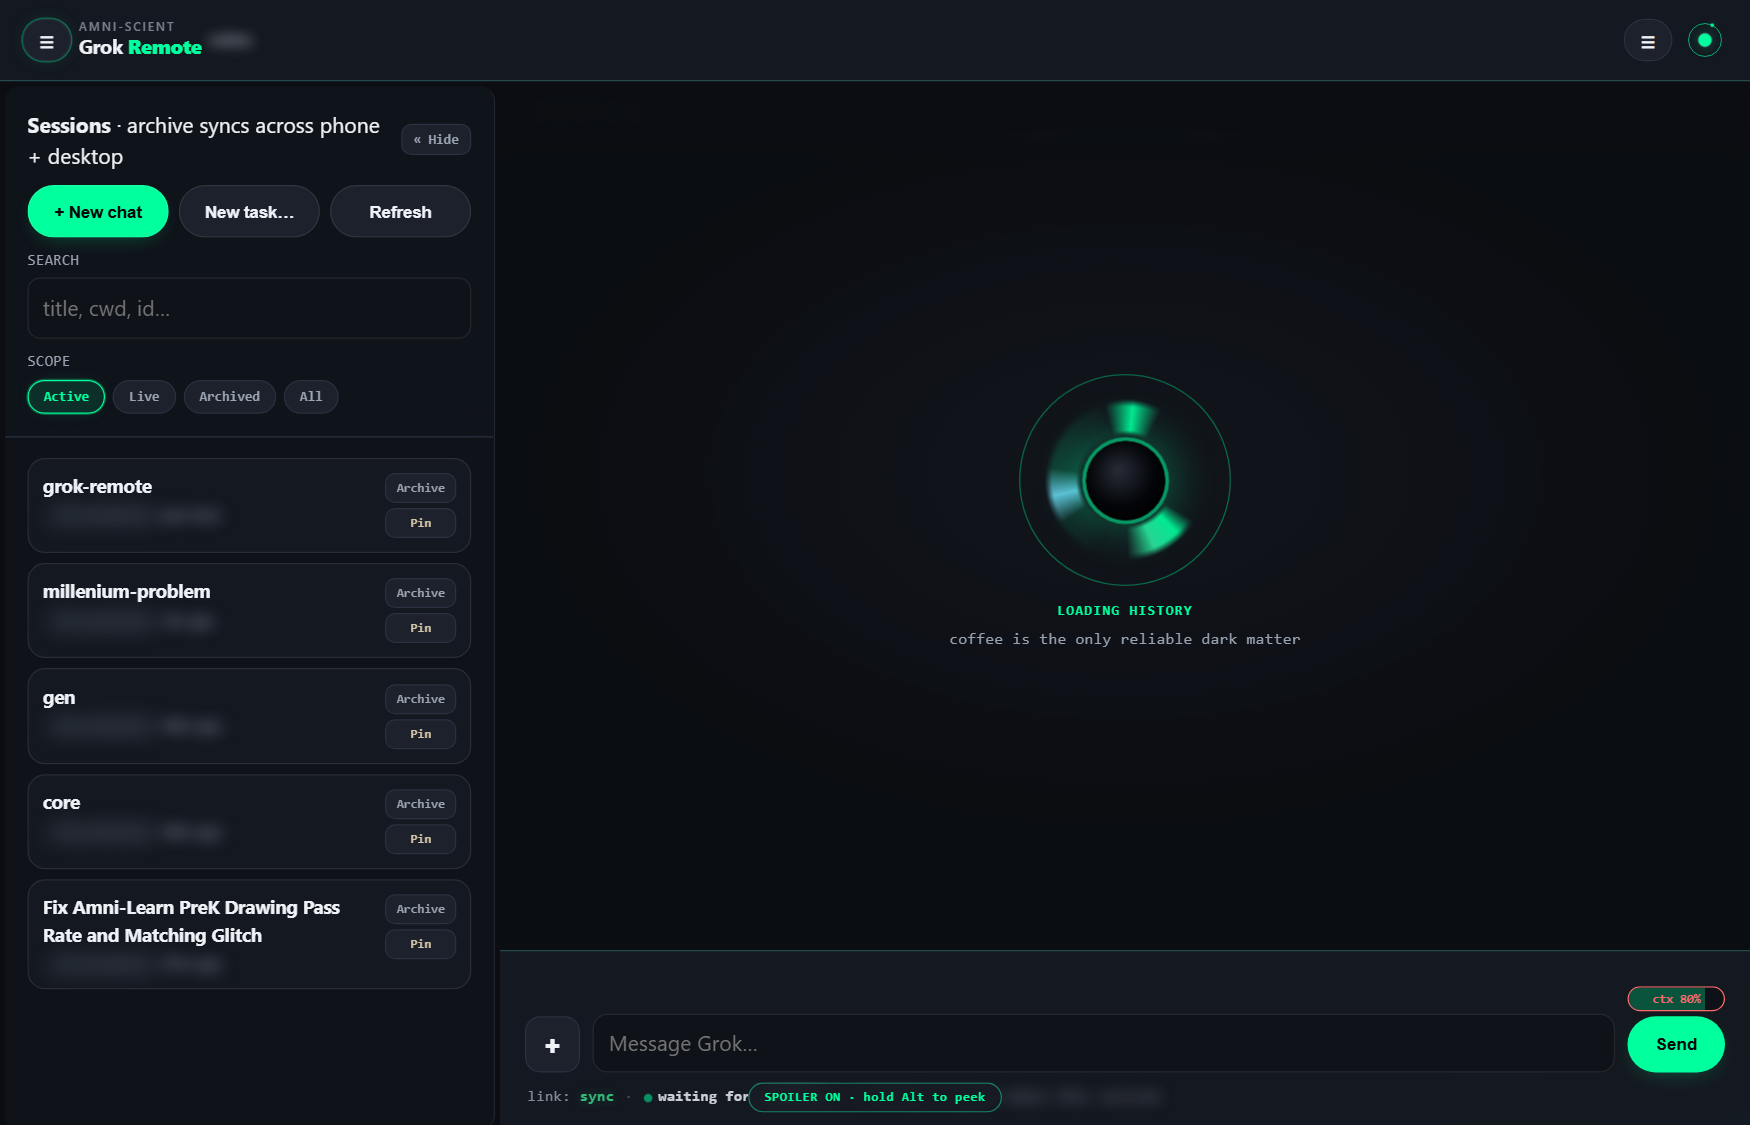
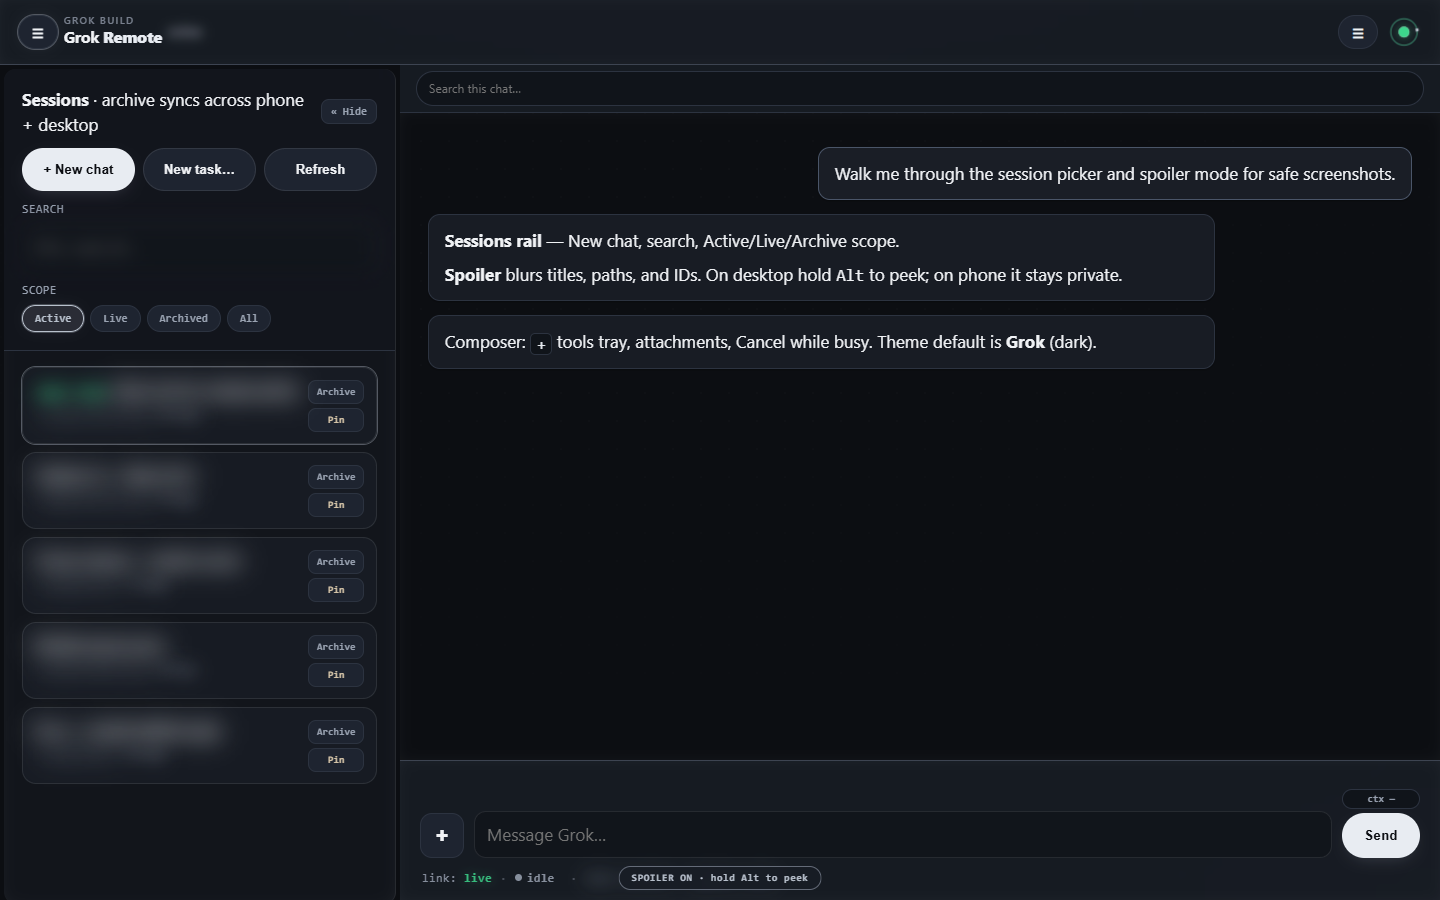
fix(docs): scrub spoiler screenshots — Grok default, no personal data
Retake README PNGs with demo=1 sessions so real paths/chats never ship.
Spoiler blurs titles; mobile badge is private screen (no Alt); default theme Grok.

diff --git a/web/index.html b/web/index.html
@@ -6,7 +6,7 @@
 <meta name="apple-mobile-web-app-capable" content="yes"/>
 <meta name="mobile-web-app-capable" content="yes"/>
 <meta name="theme-color" content="#0a0b0e" id="themeColor"/>
-<title>Grok Remote · AMNI-SCIENT</title>
+<title>Grok Remote · GROK BUILD</title>
 <style>
 /* Surfaces: dark / light. Accents: product variant (Amni-Scient + grey Grok). */
 html[data-mode="dark"]{
@@ -424,16 +424,17 @@ button.send.is-stop:hover{background:var(--bad);transform:translateY(-1px)}
 .badge.idle{color:var(--acc)}
 .hint{color:var(--mut);font-size:clamp(11px,.2vw + 10px,13px);margin-top:6px}
 .spoiler,.spoiler-path{border-radius:4px;transition:filter .12s ease,background .12s}
-body.privacy .spoiler,body.privacy .spoiler-path,body.privacy .sess .m,body.privacy .tool .loc,body.privacy .file-chip,body.privacy #hint,body.privacy .tool .inblock,body.privacy .tool .out,body.privacy .tool .tt,body.privacy .att-chip b,body.privacy .collapsible .code-head span:last-child{
-  filter:blur(6px);user-select:none;-webkit-user-select:none;cursor:default
+body.privacy .spoiler,body.privacy .spoiler-path,body.privacy .sess .m,body.privacy .sess .item .t,body.privacy .sess .item .body .t,body.privacy .tool .loc,body.privacy .file-chip,body.privacy #hint,body.privacy .lb-sess,body.privacy .tool .inblock,body.privacy .tool .out,body.privacy .tool .tt,body.privacy .att-chip b,body.privacy .collapsible .code-head span:last-child,body.privacy .panel input,body.privacy #wsurl,body.privacy #cwd,body.privacy #log,body.privacy .git-strip,body.privacy .ide-tree-head span,body.privacy #ideStatus{
+  filter:blur(9px);user-select:none;-webkit-user-select:none;cursor:default
 }
-body.privacy.privacy-reveal .spoiler,body.privacy.privacy-reveal .spoiler-path,body.privacy.privacy-reveal .sess .m,body.privacy.privacy-reveal .tool .loc,body.privacy.privacy-reveal .file-chip,body.privacy.privacy-reveal #hint,body.privacy.privacy-reveal .tool .inblock,body.privacy.privacy-reveal .tool .out,body.privacy.privacy-reveal .tool .tt,body.privacy.privacy-reveal .att-chip b,body.privacy.privacy-reveal .collapsible .code-head span:last-child{
+body.privacy.privacy-reveal .spoiler,body.privacy.privacy-reveal .spoiler-path,body.privacy.privacy-reveal .sess .m,body.privacy.privacy-reveal .sess .item .t,body.privacy.privacy-reveal .sess .item .body .t,body.privacy.privacy-reveal .tool .loc,body.privacy.privacy-reveal .file-chip,body.privacy.privacy-reveal #hint,body.privacy.privacy-reveal .lb-sess,body.privacy.privacy-reveal .tool .inblock,body.privacy.privacy-reveal .tool .out,body.privacy.privacy-reveal .tool .tt,body.privacy.privacy-reveal .att-chip b,body.privacy.privacy-reveal .collapsible .code-head span:last-child,body.privacy.privacy-reveal .panel input,body.privacy.privacy-reveal #wsurl,body.privacy.privacy-reveal #cwd,body.privacy.privacy-reveal #log,body.privacy.privacy-reveal .git-strip,body.privacy.privacy-reveal .ide-tree-head span,body.privacy.privacy-reveal #ideStatus{
   filter:none;user-select:text
 }
-body.privacy #status{filter:blur(5px);user-select:none}
+body.privacy #status{filter:blur(6px);user-select:none}
 body.privacy.privacy-reveal #status{filter:none}
 .hdrbtn.privacy-on{border-color:var(--acc);color:var(--acc);background:var(--acc-dim)}
-body.privacy::after{content:"SPOILER ON · hold Alt to peek";position:fixed;left:50%;bottom:calc(10px + env(safe-area-inset-bottom));transform:translateX(-50%);z-index:45;font:700 10px/1 var(--font-mono);letter-spacing:.6px;color:var(--acc);background:color-mix(in srgb,var(--panel) 85%,transparent);border:1px solid color-mix(in srgb,var(--acc) 40%,var(--line));border-radius:999px;padding:6px 12px;pointer-events:none;backdrop-filter:blur(8px)}
+body.privacy::after{content:"SPOILER ON · private screen";position:fixed;left:50%;bottom:calc(10px + env(safe-area-inset-bottom));transform:translateX(-50%);z-index:45;font:700 10px/1 var(--font-mono);letter-spacing:.6px;color:var(--acc);background:color-mix(in srgb,var(--panel) 85%,transparent);border:1px solid color-mix(in srgb,var(--acc) 40%,var(--line));border-radius:999px;padding:6px 12px;pointer-events:none;backdrop-filter:blur(8px)}
+body.privacy.can-hover.desktop::after{content:"SPOILER ON · hold Alt to peek"}
 #log{font-size:11px;color:var(--mut);max-height:min(80px,12vh);overflow:auto;white-space:pre-wrap;background:var(--in);border:1px solid var(--line);border-radius:8px;padding:8px;margin-top:8px;font-family:var(--font-mono)}
 .queue{font-size:11px;color:var(--acc);padding:2px 0 6px;min-height:0}
 .perm{border:1px solid color-mix(in srgb,var(--acc) 40%,var(--line));background:var(--acc-dim);border-radius:12px;padding:10px;margin:8px 0}
@@ -1051,7 +1052,7 @@ let linkState="standby",agentPhase="idle",phaseDetail="",wantReconnect=false,rec
 let connecting=false,intentionalClose=false,reconnectArmed=false,maxReconnect=5,startInFlight=false;
 Object.defineProperty(window,"replaying",{get:()=>replaying,set:v=>{replaying=!!v},configurable:true});
 Object.defineProperty(window,"sessionSwitching",{get:()=>sessionSwitching,set:v=>{sessionSwitching=!!v},configurable:true});
-let variant="scient",mode="dark";
+let variant="grok",mode="dark";
 let ux={borders:true,collapseThink:true,collapseCode:true,collapseTools:false,autoScroll:true,privacy:false};
 let archived=new Set(),sessScope="active";
 let personaId="default",directionId="none",personaApplied=new Set();
@@ -1077,15 +1078,15 @@ const VARIANTS=[
 ];
 function esc(t){return String(t||"").replace(/&/g,"&amp;").replace(/</g,"&lt;").replace(/>/g,"&gt;")}
 function migrateTheme(raw){
-  if(!raw)return{variant:"scient",mode:"dark"};
-  if(raw==="light")return{variant:"scient",mode:"light"};
+  if(!raw)return{variant:"grok",mode:"dark"};
+  if(raw==="light")return{variant:"grok",mode:"light"};
   if(raw==="prayer")return{variant:"ai",mode:"dark"};
-  if(raw.indexOf("-")>=0){const p=raw.split("-");return{variant:p[0],mode:p[1]==="light"?"light":"dark"}}
-  if(VARIANTS.some(v=>v.id===raw))return{variant:raw,mode:"dark"};
-  return{variant:"scient",mode:"dark"};
+  if(raw.indexOf("-")>=0){const p=raw.split("-");return{variant:p[0]==="scient"?"grok":p[0],mode:p[1]==="light"?"light":"dark"}}
+  if(VARIANTS.some(v=>v.id===raw))return{variant:raw==="scient"?"grok":raw,mode:"dark"};
+  return{variant:"grok",mode:"dark"};
 }
 function applyTheme(v,m,persist){
-  const vv=VARIANTS.find(x=>x.id===v)||VARIANTS[0];
+  const vv=VARIANTS.find(x=>x.id===v)||VARIANTS.find(x=>x.id==="grok")||VARIANTS[0];
   variant=vv.id;mode=(m==="light")?"light":"dark";
   document.documentElement.setAttribute("data-variant",variant);
   document.documentElement.setAttribute("data-mode",mode);
@@ -1096,6 +1097,7 @@ function applyTheme(v,m,persist){
     meta.setAttribute("content",c);
   }
   if(logoEl)logoEl.innerHTML='<span class="brand">'+esc(vv.brand)+"</span>Grok <b>Remote</b>";
+  try{document.title="Grok Remote · "+(vv.brand||"GROK BUILD")}catch(e){}
   if(persist!==false){
     try{
       localStorage.setItem("grok_remote_variant",variant);
@@ -1163,8 +1165,17 @@ function applyUx(){
   document.body.classList.toggle("privacy",!!ux.privacy);
   autoScroll=ux.autoScroll!==false;
   if(autoScroll){stickBottom=true;scroll()}
+  const mq=window.matchMedia;
+  const finePtr=!(mq)||mq("(hover:hover) and (pointer:fine)").matches;
+  const desktopUi=document.body.classList.contains("desktop")||document.body.classList.contains("electron");
+  const fine=!!(finePtr&&desktopUi);
+  document.body.classList.toggle("can-hover",!!fine);
+  document.body.classList.toggle("touch-ui",!fine);
   const bp=document.getElementById("btnPrivacy");
-  if(bp){bp.classList.toggle("privacy-on",!!ux.privacy);bp.title=ux.privacy?"Spoiler ON — paths/IDs blurred (hold Alt to peek)":"Spoiler mode — blur IDs/paths for screenshots"}
+  if(bp){
+    bp.classList.toggle("privacy-on",!!ux.privacy);
+    bp.title=ux.privacy?(fine?"Spoiler ON — titles/paths blurred (hold Alt to peek)":"Spoiler ON — private screen (titles/paths blurred)"):"Spoiler mode — blur titles/paths/IDs for screenshots";
+  }
   updateJump();
   paintUxChips();
 }
@@ -1606,10 +1617,11 @@ function extractStartLine(text,st){
   }
   return 1;
 }
+function isLinked(){return!!(isDemoMode()||(ws&&ws.readyState===1))}
 function updateChrome(){
   updateLayoutClass();
   applySidebar();
-  const chat=page==="chat",on=ws&&ws.readyState===1,wide=isWideLayout();
+  const chat=page==="chat",on=isLinked(),wide=isWideLayout();
   document.body.classList.toggle("page-chat",chat);
   btnBack.style.display=(!wide&&chat)?"inline-block":"none";
   if(btnSess)btnSess.style.display=(on&&chat&&!wide)?"":"none";
@@ -1626,7 +1638,7 @@ function showPage(name,fromPop){
   page=name;
   updateLayoutClass();
   applySidebar();
-  const wide=isWideLayout(),on=ws&&ws.readyState===1;
+  const wide=isWideLayout(),on=isLinked();
   const chatStage=document.getElementById("chatStage");
   setup.classList.toggle("on",name==="setup");
   document.body.classList.toggle("page-chat",name==="chat");
@@ -2492,8 +2504,31 @@ function relTime(ms){
 function sessionTitle(s){
   return String((s&&s.title)||"").trim()||"Untitled";
 }
+const DEMO_SESSIONS=[
+  {sessionId:"demo-001",title:"Ship remote cockpit polish",cwd:"~/projects/demo-app",resident:true,activity:"live",updatedAt:Date.now()-120000},
+  {sessionId:"demo-002",title:"Tighten CI + flaky tests",cwd:"~/projects/demo-app",resident:false,activity:"idle",updatedAt:Date.now()-3600000},
+  {sessionId:"demo-003",title:"Theme tokens + spoiler mode",cwd:"~/projects/ui-kit",resident:false,activity:"idle",updatedAt:Date.now()-86400000},
+  {sessionId:"demo-004",title:"Mobile layout pass",cwd:"~/projects/demo-app",resident:false,activity:"idle",updatedAt:Date.now()-172800000},
+  {sessionId:"demo-005",title:"Docs + install walkthrough",cwd:"~/projects/docs",resident:false,activity:"idle",updatedAt:Date.now()-259200000}
+];
+function isDemoMode(){try{return new URLSearchParams(location.search).get("demo")==="1"||!!window.__demoMode}catch(e){return!!window.__demoMode}}
+function paintDemoChat(){
+  if(!feed)return;
+  feed.innerHTML="";
+  const mk=(who,html)=>{const r=document.createElement("div");r.className="row "+who;const b=document.createElement("div");b.className="bub";b.innerHTML=html;r.appendChild(b);feed.appendChild(r)};
+  mk("me","<div class='md-p'>Walk me through the session picker and spoiler mode for safe screenshots.</div>");
+  mk("you","<div class='md-p'><strong>Sessions rail</strong> — New chat, search, Active/Live/Archive scope.</div><div class='md-p'><strong>Spoiler</strong> blurs titles, paths, and IDs. On desktop hold <kbd>Alt</kbd> to peek; on phone it stays private.</div>");
+  mk("you","<div class='md-p'>Composer: <code class='ic'>+</code> tools tray, attachments, Cancel while busy. Theme default is <strong>Grok</strong> (dark).</div>");
+  try{const h=document.getElementById("hint");if(h)h.textContent="demo session · spoiler-safe"}catch(e){}
+  stickBottom=true;scroll();
+}
 async function fetchSessions(){
   try{await loadArchive()}catch(e){}
+  if(isDemoMode()){
+    sessions=DEMO_SESSIONS.slice();
+    renderSessions();
+    return sessions;
+  }
   const r=await req("_x.ai/sessions/list",{},30000);
   sessions=normalizeSessions(r);renderSessions();return sessions;
 }
@@ -2525,12 +2560,12 @@ function renderSessions(){
     const arch=isArchived(id);
     const cur=sid&&id===String(sid);
     const d=document.createElement("div");d.className="item"+(arch?" archived":"")+(cur?" current":"");
-    d.title=sessionTitle(s)+(s.cwd?" · "+String(s.cwd):"");
+    d.title=ux.privacy?"":(sessionTitle(s)+(s.cwd?" · "+String(s.cwd):""));
     const body=document.createElement("div");body.className="body";
     const when=sessionStamp(s);const ago=relTime(when);
     const path=shortPath(s.cwd||"");
     const actBadge=s.resident?"live":(s.activity&&!/dormant|idle/i.test(String(s.activity))?s.activity:"");
-    body.innerHTML='<div class="t">'+(cur?'<span class="badge live">open</span>':'')+(s.resident?'<span class="badge live">live</span>':'')+(arch?'<span class="badge">archived</span>':'')+(actBadge&&!s.resident?'<span class="badge idle">'+esc(actBadge)+'</span>':'')+esc(sessionTitle(s))+'</div><div class="m spoiler">'+(path?'<span class="spoiler-path">'+esc(path)+"</span>":"")+(ago?(path?" · ":"")+esc(ago):"")+"</div>";
+    body.innerHTML='<div class="t spoiler">'+(cur?'<span class="badge live">open</span>':'')+(s.resident?'<span class="badge live">live</span>':'')+(arch?'<span class="badge">archived</span>':'')+(actBadge&&!s.resident?'<span class="badge idle">'+esc(actBadge)+'</span>':'')+'<span class="spoiler">'+esc(sessionTitle(s))+'</span></div><div class="m spoiler">'+(path?'<span class="spoiler-path">'+esc(path)+"</span>":"")+(ago?(path?" · ":"")+esc(ago):"")+"</div>";
     const acts=document.createElement("div");acts.className="acts";
     const ab=document.createElement("button");ab.type="button";ab.textContent=arch?"Unarchive":"Archive";
     ab.onclick=e=>toggleArchive(id,e);
@@ -2539,7 +2574,7 @@ function renderSessions(){
     pb.onclick=e=>{e.stopPropagation();if(window.grokCockpit)window.grokCockpit.pinSession(s);chip("pinned "+sessionTitle(s))};
     acts.appendChild(pb);
     d.appendChild(body);d.appendChild(acts);
-    d.onclick=e=>{if(e.target.closest&&e.target.closest(".acts"))return;openSession(s)};
+    d.onclick=e=>{if(e.target.closest&&e.target.closest(".acts"))return;if(isDemoMode()){sid=id;sidCwd=s.cwd||"";renderSessions();paintDemoChat();page="chat";updateChrome();return}openSession(s)};
     sessList.appendChild(d);
   });
 }
@@ -3526,9 +3561,9 @@ window.addEventListener("resize",()=>{
     const raw=localStorage.getItem("grok_remote_theme");
     const v=localStorage.getItem("grok_remote_variant");
     const m=localStorage.getItem("grok_remote_mode");
-    if(v||m){variant=v||"scient";mode=m||"dark"}
+    if(v||m){variant=v||"grok";mode=m||"dark"}
     else{const mig=migrateTheme(raw);variant=mig.variant;mode=mig.mode}
-  }catch(e){variant="scient";mode="dark"}
+  }catch(e){variant="grok";mode="dark"}
   loadUx();
   loadArchiveLocal();
   loadArchive({migrate:true}).catch(()=>{});
@@ -3546,9 +3581,20 @@ window.addEventListener("resize",()=>{
   const q=new URLSearchParams(location.search);
   if(q.get("theme")||q.get("variant")||q.get("mode")){
     const mig=migrateTheme(q.get("theme")||"");
-    applyTheme(q.get("variant")||mig.variant,q.get("mode")||mig.mode,true);
+    applyTheme(q.get("variant")||mig.variant,q.get("mode")||mig.mode,q.get("demo")!=="1");
   }
-  // Electron bridge: preload can force desktop + autostart stack
+  if(q.get("privacy")==="1"||q.get("spoiler")==="1"){ux.privacy=true;saveUx()}
+  if(q.get("privacy")==="0"){ux.privacy=false;saveUx()}
+  if(q.get("demo")==="1"){
+    window.__demoMode=true;
+    try{localStorage.setItem("grok_remote_tour_done","1")}catch(e){}
+    applyTheme(q.get("variant")||"grok",q.get("mode")||"dark",false);
+    ux.privacy=q.get("privacy")!=="0";
+    saveUx();
+  }
+  applyUx();
+  updateLayoutClass();
+  applyUx();
   if(window.grokRemote){
     document.body.classList.add("electron","desktop");
     try{if(window.grokRemote.getCwd){const c=await window.grokRemote.getCwd();if(c)document.getElementById("cwd").value=c}}catch(e){}
@@ -3558,7 +3604,24 @@ window.addEventListener("resize",()=>{
   if(q.get("ws"))document.getElementById("wsurl").value=q.get("ws");
   if(q.get("session"))window.__wantSession=q.get("session");
   if(q.get("task"))window.__wantTask=q.get("task");
-  const doAuto=q.get("auto")==="1"||q.get("auto")!=="0"&&(window.grokRemote&&window.grokRemote.autoConnect!==false||!window.grokRemote&&location.protocol!=="file:");
+  if(isDemoMode()){
+    sessions=DEMO_SESSIONS.slice();
+    setConn(true,"demo",false);
+    setPhase("idle");
+    if(q.get("chat")==="1"||q.get("view")==="chat"){
+      sid=DEMO_SESSIONS[0].sessionId;sidCwd=DEMO_SESSIONS[0].cwd||"";
+      showPage("chat",true);
+      renderSessions();
+      paintDemoChat();
+    }else if(q.get("view")==="setup"){
+      showPage("setup",true);
+      renderSessions();
+    }else{
+      showPage("sessions",true);
+      renderSessions();
+    }
+  }
+  const doAuto=!isDemoMode()&&(q.get("auto")==="1"||q.get("auto")!=="0"&&(window.grokRemote&&window.grokRemote.autoConnect!==false||!window.grokRemote&&location.protocol!=="file:"));
   if(doAuto){
     reconnectArmed=true;wantReconnect=true;connectAttempt=0;
     try{
@@ -3573,7 +3636,7 @@ window.addEventListener("resize",()=>{
   }
   const forceTour=q.get("tour")==="1"||q.get("tour")==="force";
   let tourDone=false;try{tourDone=localStorage.getItem("grok_remote_tour_done")==="1"}catch(e){}
-  if(forceTour||!tourDone){
+  if(!isDemoMode()&&(forceTour||!tourDone)){
     setTimeout(()=>{try{startTour(forceTour?"url":"first-run")}catch(e){}},doAuto?900:400);
   }
 })();

diff --git a/README.md b/README.md
@@ -29,9 +29,11 @@ Open the printed URL on your phone (same Wi‑Fi), e.g. `http://192.168.x.x:2421
 
 ## Screenshots
 
-Spoiler mode blurs paths, session IDs, and sensitive chips for safe sharing (hold **Alt** to peek).
+Default theme is **Grok** (dark). Spoiler blurs session titles, paths, and IDs for safe sharing — desktop holds **Alt** to peek; phone shows **private screen** (no Alt).
 
-### Desktop cockpit (Scient · dark · spoiler on)
+Demo captures use `?demo=1&variant=grok&privacy=1` so real chats/paths never hit the repo.
+
+### Desktop cockpit (Grok · dark · spoiler on)
 
 ![Desktop sessions + cockpit with spoiler blur](docs/screenshots/desktop-cockpit-spoiler.png)
 
@@ -45,13 +47,13 @@ Spoiler mode blurs paths, session IDs, and sensitive chips for safe sharing (hol
 
 ### Phone
 
-| Scient | Grok mono |
-|--------|-----------|
-| ![Phone Scient theme spoiler](docs/screenshots/phone-spoiler.png) | ![Phone Grok theme spoiler](docs/screenshots/phone-grok-spoiler.png) |
+| Grok (default) | Scient accent |
+|----------------|---------------|
+| ![Phone Grok theme spoiler](docs/screenshots/phone-grok-spoiler.png) | ![Phone Scient theme spoiler](docs/screenshots/phone-spoiler.png) |
 
 ### Connect / themes screen
 
-![Setup panel with themes, Spoiler chip, and SPOILER ON badge](docs/screenshots/setup-spoiler.png)
+![Setup panel with Grok selected, Spoiler chip, and SPOILER ON badge](docs/screenshots/setup-spoiler.png)
 
 ## What you get
 

diff --git a/architecture_map.md b/architecture_map.md
@@ -1,22 +1,33 @@
 # Grok Remote — architecture map
 
-**Updated:** 2026-07-10 · v7 live status + session reliability
+**Updated:** 2026-07-10 · v14 spoiler-safe screenshots + demo mode
 
 ## Layout
 
 ```
 grok-remote/
-  web/index.html          # Phone + browser + Electron UI
+  web/index.html          # Phone + browser + Electron UI (default theme: grok)
   web/ide.js              # Built-in IDE + Grok Review
   server.py               # static + /ws proxy + /api/fs/*
   start.ps1               # agent + UI launch
+  scripts/capture-screenshots.mjs  # demo=1 Playwright PNGs for README
   scripts/launch-desktop.cmd
   desktop/                # Electron cockpit (auto-stack)
+  docs/screenshots/       # public spoiler shots only
   skills/remote/
   commands/
   hooks/hooks.json
   config.default.json
 ```
+
+## Privacy / spoiler (v14)
+
+| Piece | Behavior |
+|-------|----------|
+| `body.privacy` | Blurs titles (`.sess .item .t`), paths, IDs, setup inputs, tool locs |
+| Badge | Default `SPOILER ON · private screen`; Alt only if `can-hover` + `desktop` |
+| `?demo=1` | Fake sessions + sample chat; no agent; safe for git screenshots |
+| `?privacy=1` / `variant=` | Force spoiler / theme for captures without localStorage leaks |
 
 ## Cockpit v4
 

diff --git a/docs/guardian_councils/guardian_council_spoiler_shots.md b/docs/guardian_councils/guardian_council_spoiler_shots.md
@@ -1,0 +1,18 @@
+# Guardian Council · Spoiler-safe public screenshots
+
+## Architect
+Ship a `?demo=1` capture path with scrubbed sessions + forced Grok theme so README never depends on live disk state.
+
+## Sentinel
+Blur must cover titles not just paths; mobile must never advertise Alt; no username/cwd/chat titles from real sessions in git.
+
+## Scholar
+Prior shots failed because title blur landed after capture and localStorage kept Scient; document demo URL in README.
+
+## Engineer
+Reuse existing privacy CSS; add spoiler classes on titles; `isLinked()` for demo rail; Playwright + Chrome for PNGs.
+
+## Pathfinder
+Majority: demo mode + retake all PNGs + README. Alternate (edit PNGs by hand) rejected as fragile.
+
+**Ruling:** Demo capture pipeline + stronger spoiler + Grok default shots.

diff --git a/changelog.md b/changelog.md
@@ -1,5 +1,13 @@
 # Changelog
 
+## 2026-07-10 — Spoiler-safe Grok screenshots v14
+
+- Privacy blurs **session titles** (not just paths); stronger blur; title tooltips stripped when spoiler on
+- Spoiler badge: **private screen** by default; **hold Alt to peek** only on real desktop (`can-hover.desktop`)
+- Default product theme remains **Grok**; `applyTheme` fallback no longer lands on Scient
+- `?demo=1&variant=grok&privacy=1` scrubbed sessions for public captures; `scripts/capture-screenshots.mjs`
+- README shots retaken — no personal paths/chats, Grok dark default, phone without Alt
+
 ## 2026-07-10 — Menu stacking + code line numbers / syntax
 
 - Header ☰ / orbit menus use `position:fixed` + high z-index so they paint above chat

diff --git a/docs/checklists/checklist_spoiler_shots_v14.md b/docs/checklists/checklist_spoiler_shots_v14.md
@@ -1,0 +1,12 @@
+# Checklist · spoiler-safe screenshots v14
+
+- [x] Backup `web/index.html` → `backups/index.html.v14.bak`
+- [x] Privacy CSS: blur session titles (`.t` + `.spoiler`); default badge private screen
+- [x] Alt peek only on `can-hover.desktop` (not mobile)
+- [x] Demo mode `?demo=1` with fake sessions (no real paths/chats)
+- [x] Force Grok default in demo + applyTheme fallback
+- [x] Capture script `scripts/capture-screenshots.mjs`
+- [x] Retake docs/screenshots/* (Grok dark, spoiler, demo)
+- [x] README captions updated (Grok default, mobile private screen)
+- [x] Sync plugin `~/.grok/plugins/grok-remote/web`
+- [ ] User confirms screenshots + push
